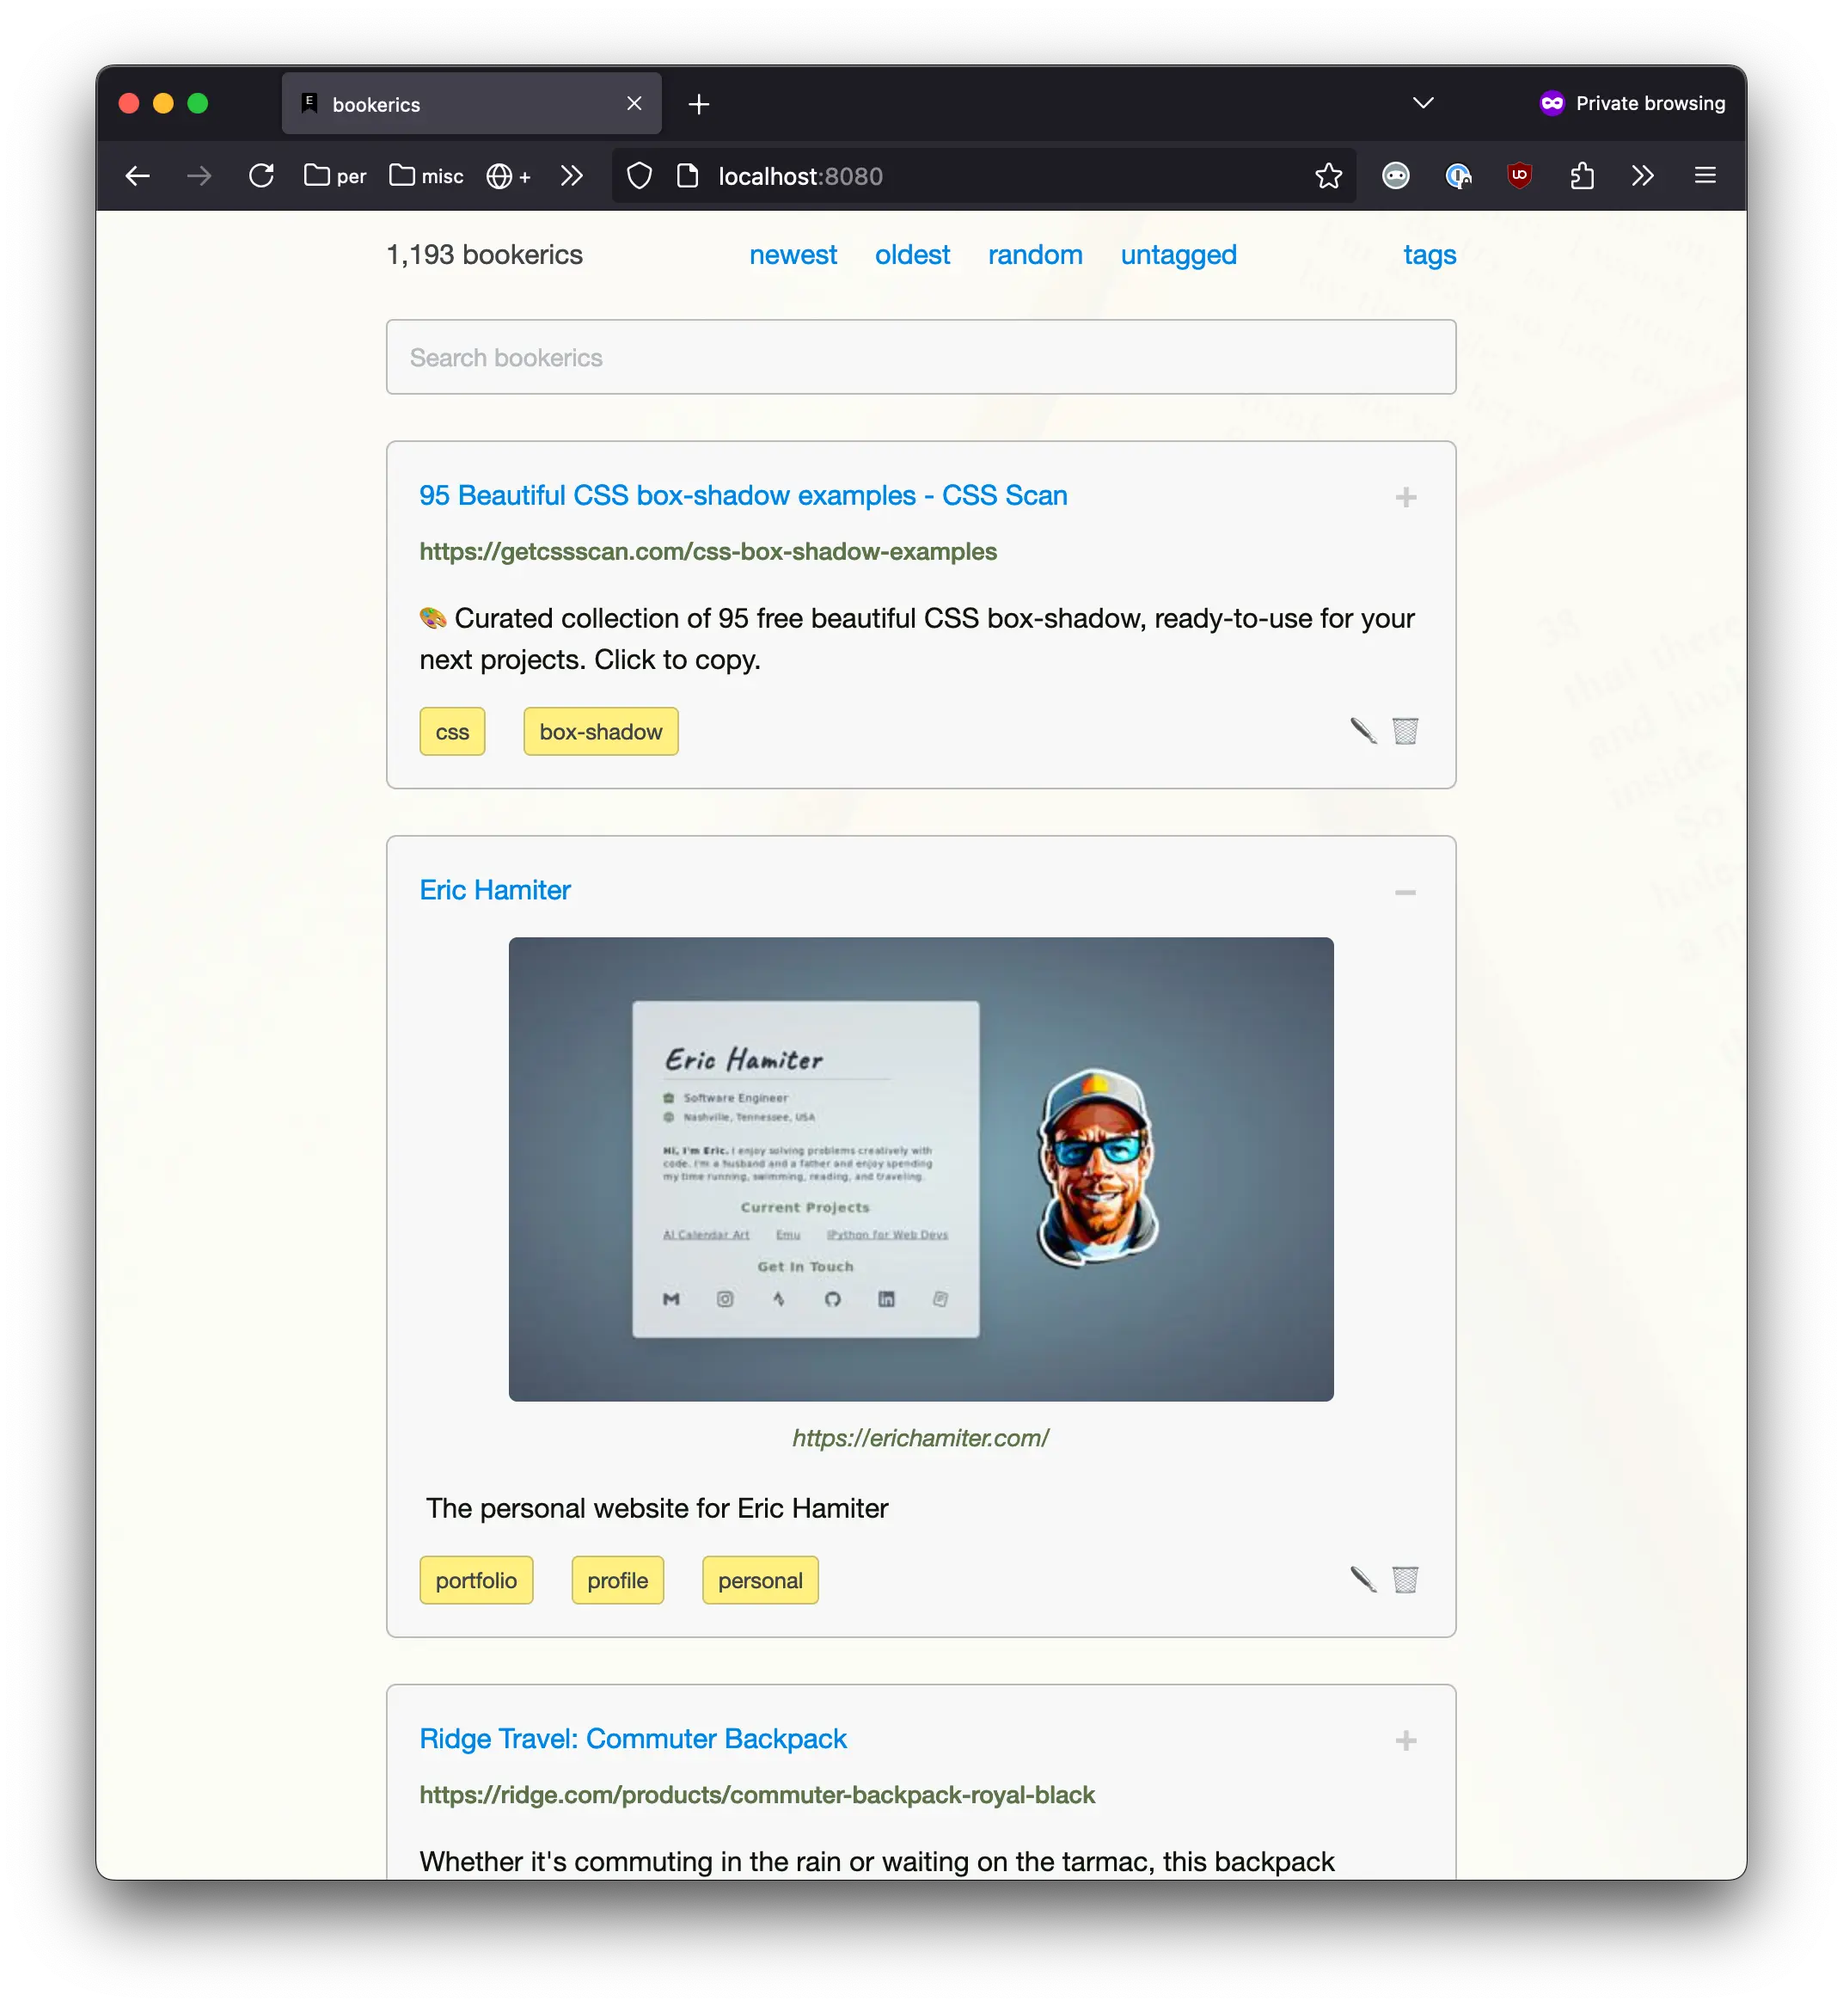
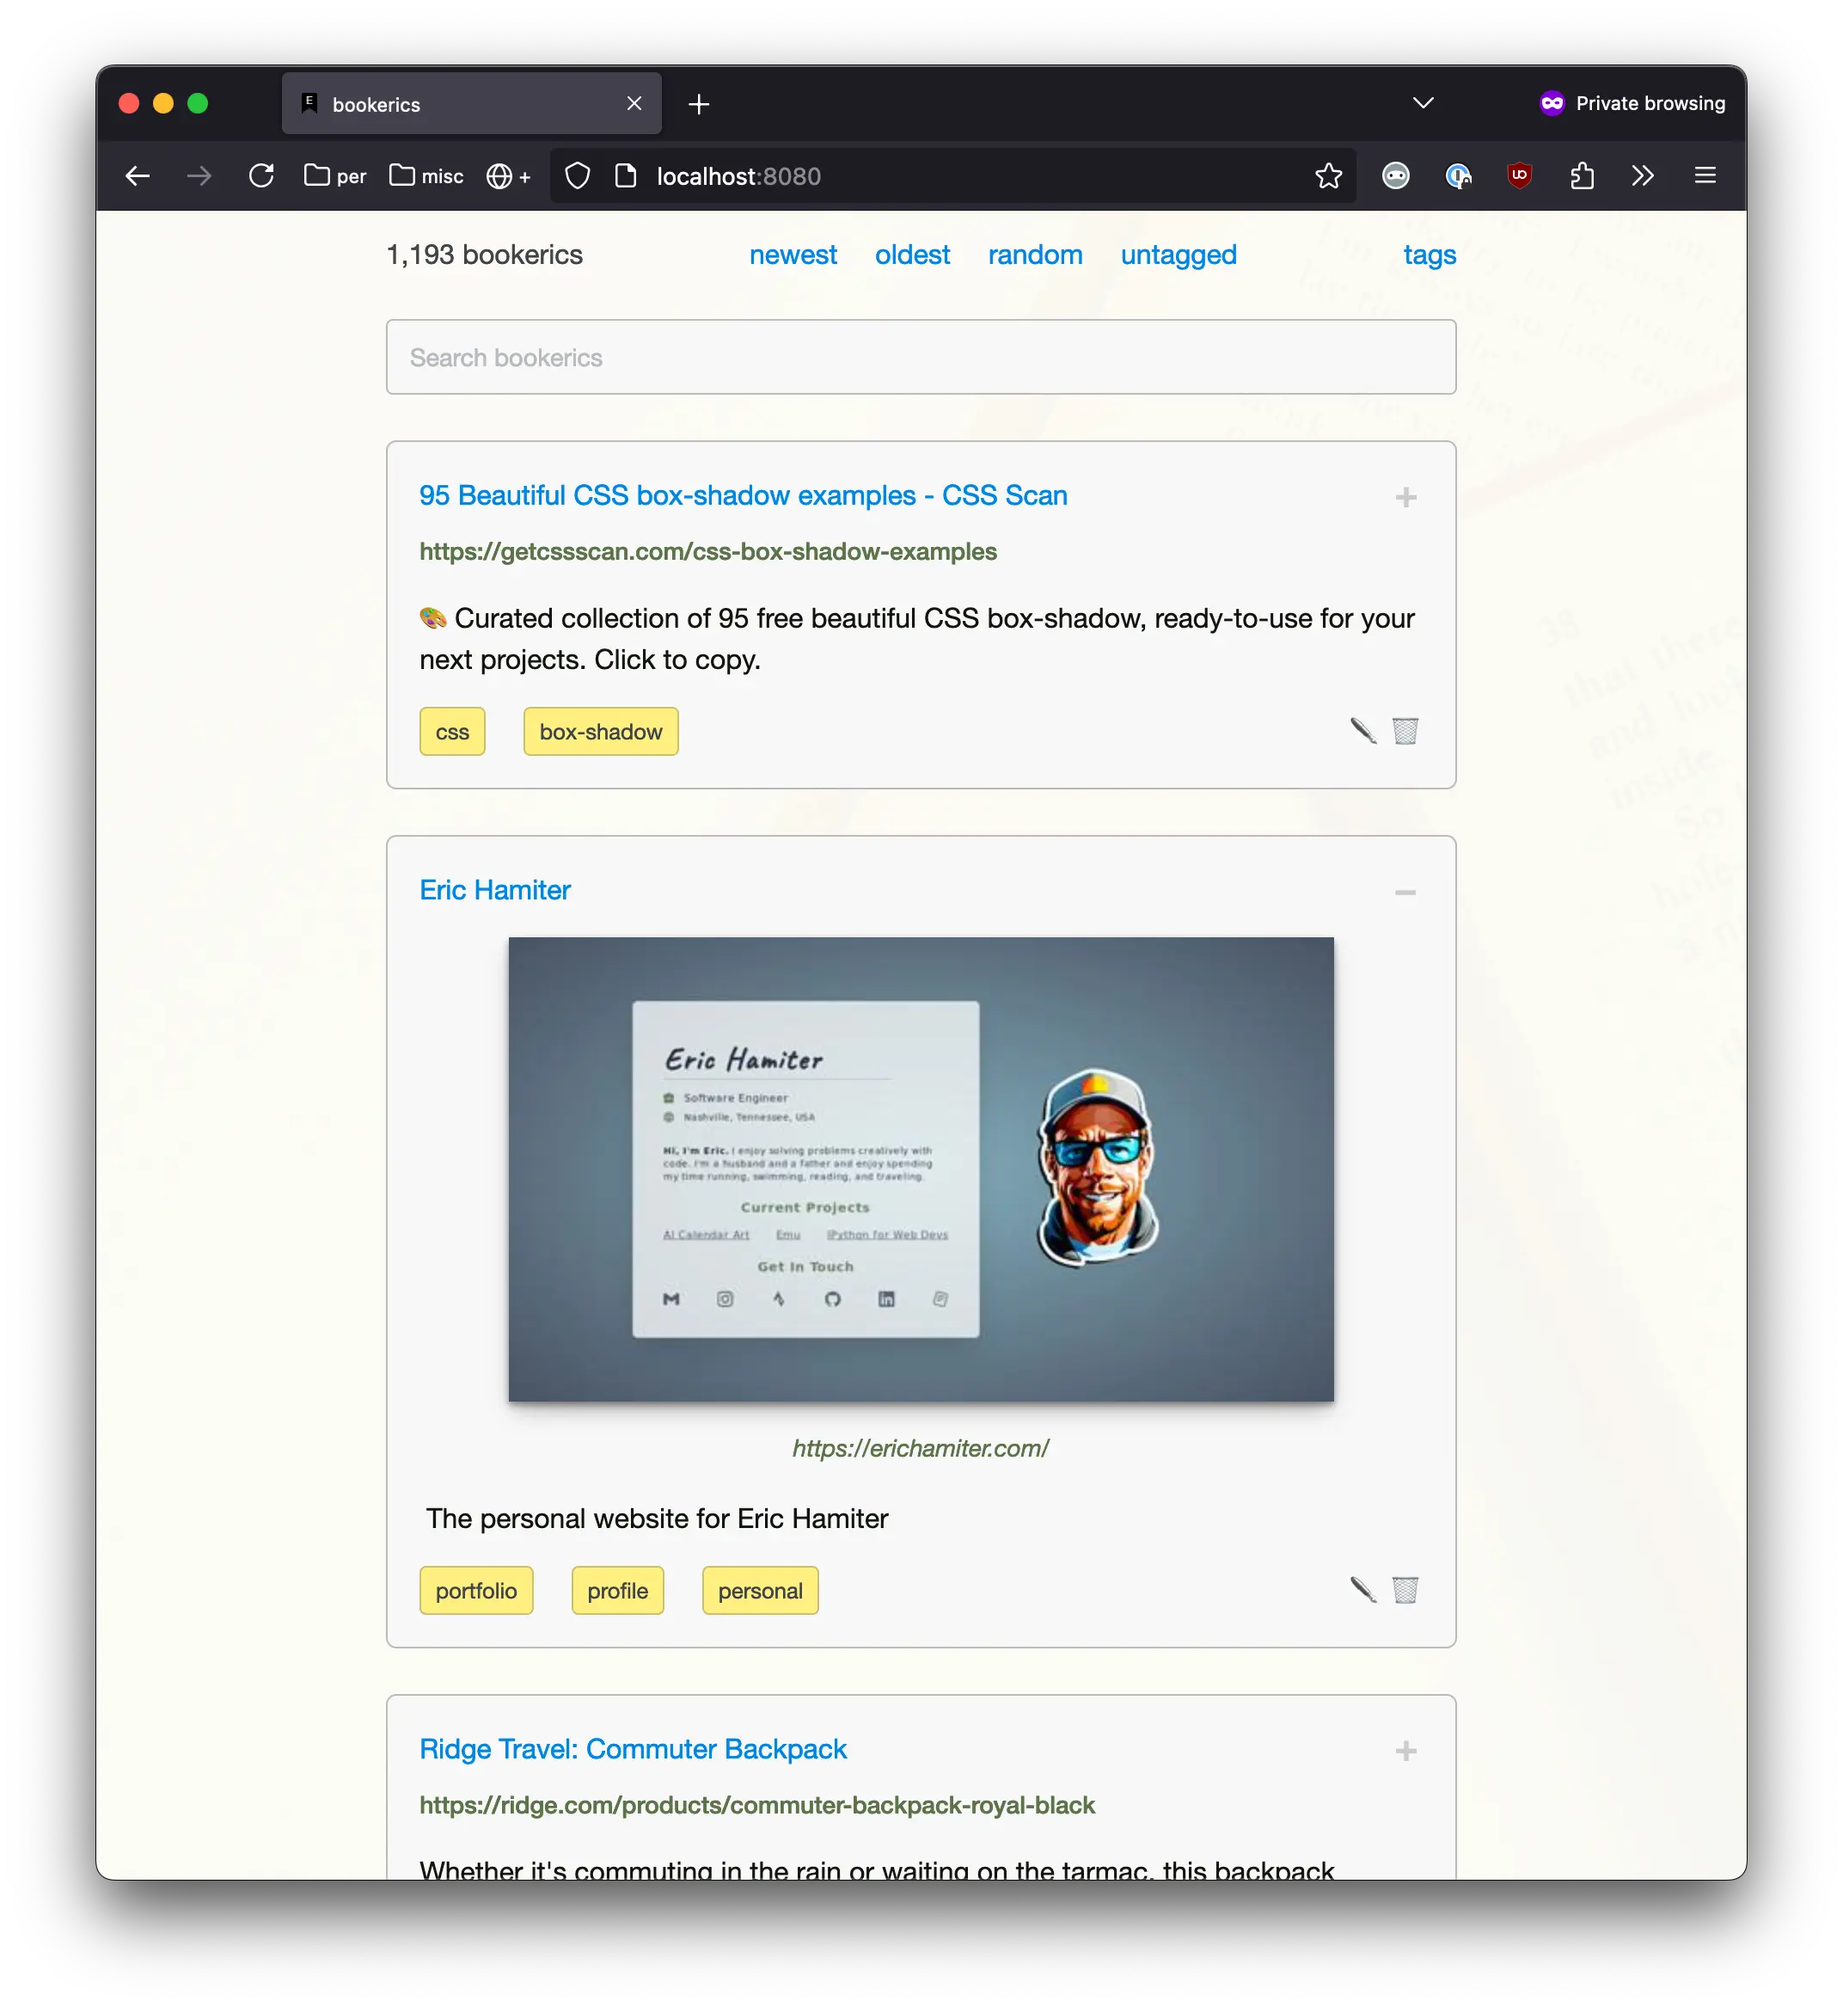
move stuff

diff --git a/src/components.py b/src/components.py
@@ -130,35 +130,6 @@ class BookericLink(Component[str, LinkAttrs]):
         )
 
 
-class PreviewImage(Component[img, ImgAttrs]):
-    classes = ["image-placeholder"]
-    styles = {
-        ".image-placeholder": {
-            "height": "auto",
-            "max-inline-size": "480px",
-            "margin-top": "1em",
-            "border": "1px solid #7a7a7a7a",
-            "border-radius": "5px",
-            "box-shadow": "1 1px 5px rgba(0, 0, 0, 0.2)",
-            "background": "#85acc934",
-            "background-size": "cover",
-        }
-    }
-
-    def get_random_giphy_url(self):
-        _url = f"https://api.giphy.com/v1/gifs/random?api_key={GIPHY_API_KEY}&tag=waiting&rating=r"
-        r = requests.get(_url)
-        giphy_url = r.json()["data"]["images"]["original"]["url"]
-        return giphy_url
-
-    @override
-    def render(self) -> img:
-        if not self.attrs.get("src"):
-            self.attrs["src"] = self.get_random_giphy_url()
-            self.attrs["placeholder"] = True
-        return img(*self.children, **self.attrs)
-
-
 class TableStructure(Component[NoChildren, GlobalAttrs]):
     @override
     def render(self) -> Center:
@@ -210,26 +181,51 @@ class Switcher(div):
         }
     )
 
+class PreviewImage(Component[img, ImgAttrs]):
+    classes = ["image-placeholder"]
+    styles = {
+        ".image-placeholder": {
+            "height": "auto",
+            "width": "100%",
+            "max-width": "480px",
+            "margin-top": "1em",
+            "box-shadow": "rgba(0, 0, 0, 0.4) 0px 2px 4px, rgba(0, 0, 0, 0.3) 0px 7px 13px -3px, rgba(0, 0, 0, 0.2) 0px -3px 0px inset;",
+            "background": "#85acc934",
+        }
+    }
+
+    def get_random_giphy_url(self):
+        _url = f"https://api.giphy.com/v1/gifs/random?api_key={GIPHY_API_KEY}&tag=waiting&rating=r"
+        r = requests.get(_url)
+        giphy_url = r.json()["data"]["images"]["original"]["url"]
+        return giphy_url
+
+    @override
+    def render(self) -> img:
+        if not self.attrs.get("src"):
+            self.attrs["src"] = self.get_random_giphy_url()
+            self.attrs["placeholder"] = True
+        return img(*self.children, **self.attrs)
+
+
 class ImageSwitcher(div):
     classes = ["image-switcher"]
     styles = style.use(
         lambda theme: {
             ".image-switcher": {
                 "display": "flex",
+                "flex-direction": "column",
                 "flex-wrap": "wrap",
                 "gap": theme.sizes.xxxs,
                 "justify-content": "center",  # Center the items horizontally
+                "align-items": "center",
             },
             ".no-gap": {
                 "gap": "0",
             },
             ".image-switcher > *": {
-                "flex-basis": "auto",  # Allow it to retain its natural size
-                "display": "flex",
-                "justify-content": "center",
-                "align-items": "center",
-                "flex-grow": "1",
-                "max-inline-size": "480px",
+                "width": "100%",
+                "text-align": "center",
             },
             (
                 f".image-switcher > :nth-last-child(n+{theme.layouts.switcher.limit+1})",
@@ -239,7 +235,6 @@ class ImageSwitcher(div):
             },
         }
     )
-
 
 
 class BookmarkBox(div):
@@ -422,10 +417,7 @@ class UpdatingBookmarkMessage(Component[NoChildren, GlobalAttrs]):
 class BookmarkList(Component[NoChildren, GlobalAttrs]):
     def render_tags(self, tags) -> Cluster:
         return Cluster(
-            *[
-                ButtonLink(tag, to=f"/tags/{tag}", classes=["tag info"])
-                for tag in tags
-            ],
+            *[ButtonLink(tag, to=f"/tags/{tag}", classes=["tag info"]) for tag in tags],
         )
 
     def render_bookmark(self, bookmark) -> BookmarkBox:
@@ -486,10 +478,7 @@ class BookmarkImageList(Component[NoChildren, GlobalAttrs]):
 
     def render_tags(self, tags) -> Cluster:
         return Cluster(
-            *[
-                ButtonLink(tag, to=f"/tags/{tag}", classes=["tag info"])
-                for tag in tags
-            ],
+            *[ButtonLink(tag, to=f"/tags/{tag}", classes=["tag info"]) for tag in tags],
         )
 
     # Layout for showing image previews
@@ -511,7 +500,6 @@ class BookmarkImageList(Component[NoChildren, GlobalAttrs]):
                     to=bookmark["url"],
                 ),
                 Paragraph(bookmark["url"], classes=["image-url"]),
-                classes=["no-gap"],
             ),
             Paragraph(bookmark["description"], classes=["image-description"])
             if bookmark.get("description")

diff --git a/src/endpoints/index.py b/src/endpoints/index.py
@@ -23,8 +23,8 @@ from src.main import app
 from src.pages import Page
 from src.utils import logger
 
-
 # main routes
+
 
 @app.get("/")
 async def index():
@@ -55,6 +55,7 @@ async def random_bookmark():
         BookmarkImageList(bookmarks=bookmarks),
     )
 
+
 @app.get("/tags")
 async def tags():
     bookmarks = fetch_bookmarks(kind="newest")
@@ -82,6 +83,7 @@ async def bookmarks_by_tag(tag: str):
         BookmarkList(bookmarks=bookmarks),
     )
 
+
 @app.get("/untagged")
 async def untagged_bookmarks():
     bookmarks = fetch_bookmarks(kind="untagged")
@@ -91,7 +93,9 @@ async def untagged_bookmarks():
         BookmarkList(bookmarks=bookmarks),
     )
 
+
 # partials
+
 
 @app.get("/id/{id}")
 async def bookmark_by_id(id: str):
@@ -130,6 +134,7 @@ async def search(request: Request):
 
 
 # utils
+
 
 @app.get("/get_thumbnail/{id}")
 async def get_thumbnail(request: Request):
@@ -193,7 +198,9 @@ async def delete_bookmark(request: Request):
         print(f"Error deleting bookmark: {e}")
         return JSONResponse({"status": "error", "message": str(e)}, status_code=500)
 
+
 # misc
+
 
 @app.get("/favicon.ico")
 async def favicon():

diff --git a/src/pages.py b/src/pages.py
@@ -29,10 +29,11 @@ class CustomHead(Component[AnyChildren, HtmlHeadAttrs]):
             script(src="/static/js/custom.js", defer=True),
             link(rel="icon", href="/static/images/favicon.png"),
             title(self.attrs.get("title", "bookerics")),
-
             # Background photo originally by Jess Bailey on Unsplash:
             # https://unsplash.com/photos/close-shot-of-book-page-X5gDoysLbBc
-            style("""html { background: url("/static/images/bg.png") no-repeat center center fixed; -webkit-background-size: cover; -moz-background-size: cover; -o-background-size: cover; background-size: cover;}"""),  # no fmt
+            style(
+                """html { background: url("/static/images/bg.png") no-repeat center center fixed; -webkit-background-size: cover; -moz-background-size: cover; -o-background-size: cover; background-size: cover;}"""
+            ),  # no fmt
         ]
 
         if favicon := self.attrs.get("favicon"):
